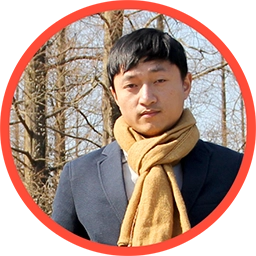
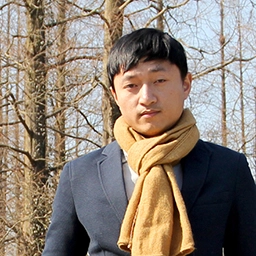
opt about me head style

diff --git a/docs/contact/index.html b/docs/contact/index.html
@@ -413,7 +413,7 @@
 
 
 
-<link rel="stylesheet" href="https://note.killliu.com/css/main.min.103686a14a61747dccd52d9ec27cf3af351f3c071e7eedf94c889709cd47d3ee.css" integrity="sha256-EDaGoUphdH3M1S2ewnzzrzUfPAcefu35TIiXCc1H0&#43;4=" crossorigin="anonymous">
+<link rel="stylesheet" href="https://note.killliu.com/css/main.min.46d1002e02a6075a60c73555f570464349eb24e7bf78efe4503fb0ffd94bffb0.css" integrity="sha256-RtEALgKmB1pgxzVV9XBGQ0nrJOe/eO/kUD&#43;w/9lL/7A=" crossorigin="anonymous">
 
 
 
@@ -580,10 +580,10 @@
     <img
       
       loading="lazy"
-      src="/contact/img/head_hudc96d1ab673b2b34961632bc1ccdce9a_38358_256x0_resize_q75_h2_box_2.webp"
+      src="/contact/img/head_hu44bfd43d68e4efa77f2c03773ceda6ab_51628_256x0_resize_q75_h2_box_2.webp"
       width="256"
       height="256"
-      alt="head"
+      alt="killliu-head-icon"
     />
 
   

diff --git a/docs/404.html b/docs/404.html
@@ -414,7 +414,7 @@
 
 
 
-<link rel="stylesheet" href="https://note.killliu.com/css/main.min.103686a14a61747dccd52d9ec27cf3af351f3c071e7eedf94c889709cd47d3ee.css" integrity="sha256-EDaGoUphdH3M1S2ewnzzrzUfPAcefu35TIiXCc1H0&#43;4=" crossorigin="anonymous">
+<link rel="stylesheet" href="https://note.killliu.com/css/main.min.46d1002e02a6075a60c73555f570464349eb24e7bf78efe4503fb0ffd94bffb0.css" integrity="sha256-RtEALgKmB1pgxzVV9XBGQ0nrJOe/eO/kUD&#43;w/9lL/7A=" crossorigin="anonymous">
 
 
 

diff --git a/docs/categories/index.html b/docs/categories/index.html
@@ -419,7 +419,7 @@
 
 
 
-<link rel="stylesheet" href="https://note.killliu.com/css/main.min.103686a14a61747dccd52d9ec27cf3af351f3c071e7eedf94c889709cd47d3ee.css" integrity="sha256-EDaGoUphdH3M1S2ewnzzrzUfPAcefu35TIiXCc1H0&#43;4=" crossorigin="anonymous">
+<link rel="stylesheet" href="https://note.killliu.com/css/main.min.46d1002e02a6075a60c73555f570464349eb24e7bf78efe4503fb0ffd94bffb0.css" integrity="sha256-RtEALgKmB1pgxzVV9XBGQ0nrJOe/eO/kUD&#43;w/9lL/7A=" crossorigin="anonymous">
 
 
 

diff --git a/docs/index.html b/docs/index.html
@@ -413,7 +413,7 @@
 
 
 
-<link rel="stylesheet" href="https://note.killliu.com/css/main.min.103686a14a61747dccd52d9ec27cf3af351f3c071e7eedf94c889709cd47d3ee.css" integrity="sha256-EDaGoUphdH3M1S2ewnzzrzUfPAcefu35TIiXCc1H0&#43;4=" crossorigin="anonymous">
+<link rel="stylesheet" href="https://note.killliu.com/css/main.min.46d1002e02a6075a60c73555f570464349eb24e7bf78efe4503fb0ffd94bffb0.css" integrity="sha256-RtEALgKmB1pgxzVV9XBGQ0nrJOe/eO/kUD&#43;w/9lL/7A=" crossorigin="anonymous">
 
 
 

diff --git a/docs/posts/hugo_github_blog/index.html b/docs/posts/hugo_github_blog/index.html
@@ -443,7 +443,7 @@
 
 
 
-<link rel="stylesheet" href="https://note.killliu.com/css/main.min.103686a14a61747dccd52d9ec27cf3af351f3c071e7eedf94c889709cd47d3ee.css" integrity="sha256-EDaGoUphdH3M1S2ewnzzrzUfPAcefu35TIiXCc1H0&#43;4=" crossorigin="anonymous">
+<link rel="stylesheet" href="https://note.killliu.com/css/main.min.46d1002e02a6075a60c73555f570464349eb24e7bf78efe4503fb0ffd94bffb0.css" integrity="sha256-RtEALgKmB1pgxzVV9XBGQ0nrJOe/eO/kUD&#43;w/9lL/7A=" crossorigin="anonymous">
 
 
 

diff --git a/docs/posts/index.html b/docs/posts/index.html
@@ -422,7 +422,7 @@
 
 
 
-<link rel="stylesheet" href="https://note.killliu.com/css/main.min.103686a14a61747dccd52d9ec27cf3af351f3c071e7eedf94c889709cd47d3ee.css" integrity="sha256-EDaGoUphdH3M1S2ewnzzrzUfPAcefu35TIiXCc1H0&#43;4=" crossorigin="anonymous">
+<link rel="stylesheet" href="https://note.killliu.com/css/main.min.46d1002e02a6075a60c73555f570464349eb24e7bf78efe4503fb0ffd94bffb0.css" integrity="sha256-RtEALgKmB1pgxzVV9XBGQ0nrJOe/eO/kUD&#43;w/9lL/7A=" crossorigin="anonymous">
 
 
 

diff --git a/docs/search/index.html b/docs/search/index.html
@@ -409,7 +409,7 @@
 
 
 
-<link rel="stylesheet" href="https://note.killliu.com/css/main.min.103686a14a61747dccd52d9ec27cf3af351f3c071e7eedf94c889709cd47d3ee.css" integrity="sha256-EDaGoUphdH3M1S2ewnzzrzUfPAcefu35TIiXCc1H0&#43;4=" crossorigin="anonymous">
+<link rel="stylesheet" href="https://note.killliu.com/css/main.min.46d1002e02a6075a60c73555f570464349eb24e7bf78efe4503fb0ffd94bffb0.css" integrity="sha256-RtEALgKmB1pgxzVV9XBGQ0nrJOe/eO/kUD&#43;w/9lL/7A=" crossorigin="anonymous">
 
 
 

diff --git a/docs/tags/index.html b/docs/tags/index.html
@@ -419,7 +419,7 @@
 
 
 
-<link rel="stylesheet" href="https://note.killliu.com/css/main.min.103686a14a61747dccd52d9ec27cf3af351f3c071e7eedf94c889709cd47d3ee.css" integrity="sha256-EDaGoUphdH3M1S2ewnzzrzUfPAcefu35TIiXCc1H0&#43;4=" crossorigin="anonymous">
+<link rel="stylesheet" href="https://note.killliu.com/css/main.min.46d1002e02a6075a60c73555f570464349eb24e7bf78efe4503fb0ffd94bffb0.css" integrity="sha256-RtEALgKmB1pgxzVV9XBGQ0nrJOe/eO/kUD&#43;w/9lL/7A=" crossorigin="anonymous">
 
 
 

diff --git a/docs/tags/tools/index.html b/docs/tags/tools/index.html
@@ -429,7 +429,7 @@
 
 
 
-<link rel="stylesheet" href="https://note.killliu.com/css/main.min.103686a14a61747dccd52d9ec27cf3af351f3c071e7eedf94c889709cd47d3ee.css" integrity="sha256-EDaGoUphdH3M1S2ewnzzrzUfPAcefu35TIiXCc1H0&#43;4=" crossorigin="anonymous">
+<link rel="stylesheet" href="https://note.killliu.com/css/main.min.46d1002e02a6075a60c73555f570464349eb24e7bf78efe4503fb0ffd94bffb0.css" integrity="sha256-RtEALgKmB1pgxzVV9XBGQ0nrJOe/eO/kUD&#43;w/9lL/7A=" crossorigin="anonymous">
 
 
 

diff --git a/content/contact/index.md b/content/contact/index.md
@@ -3,8 +3,7 @@ title   : "About Me"
 
 ---
 
-![head](head.webp)
+![killliu-head-icon](head.webp)
+
 
 十多年U3D项目开发经验，五年U3D主程开发管理经验。精通U3D框架设计、开发及优化。协助美术资源制作、策划数据整合及配合服务端交互。对游戏开发有较深的理解，追求有效高效的项目开发，具备相应的分析解决问题的能力和团队管理经验。
-
-
